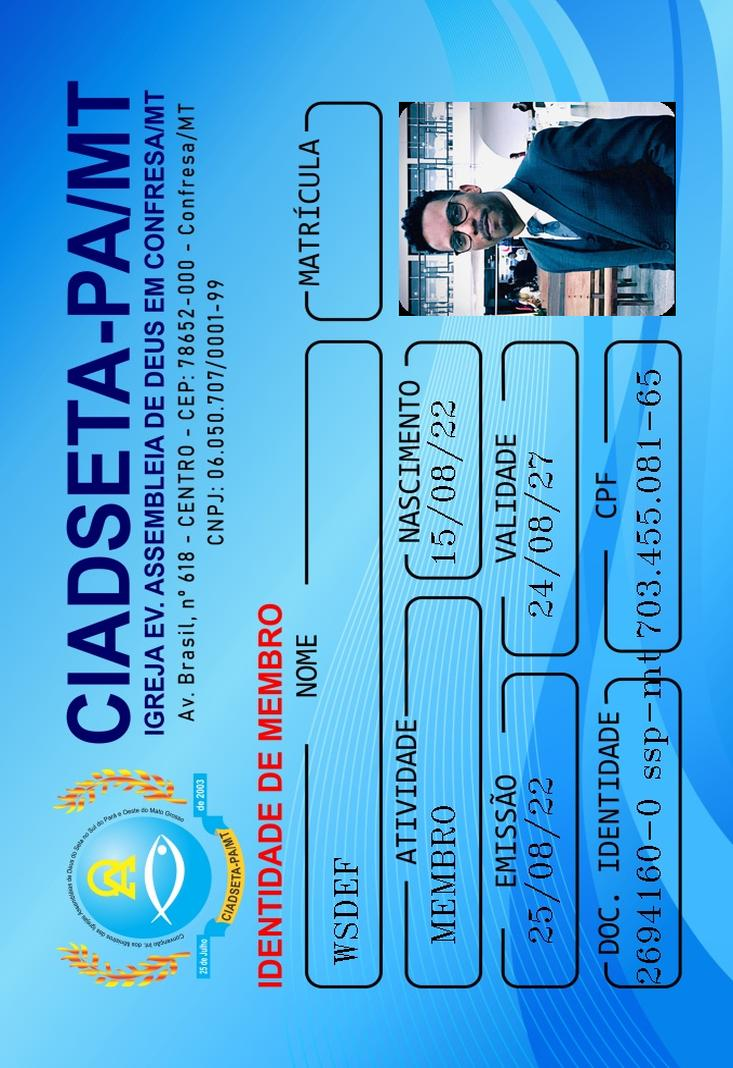
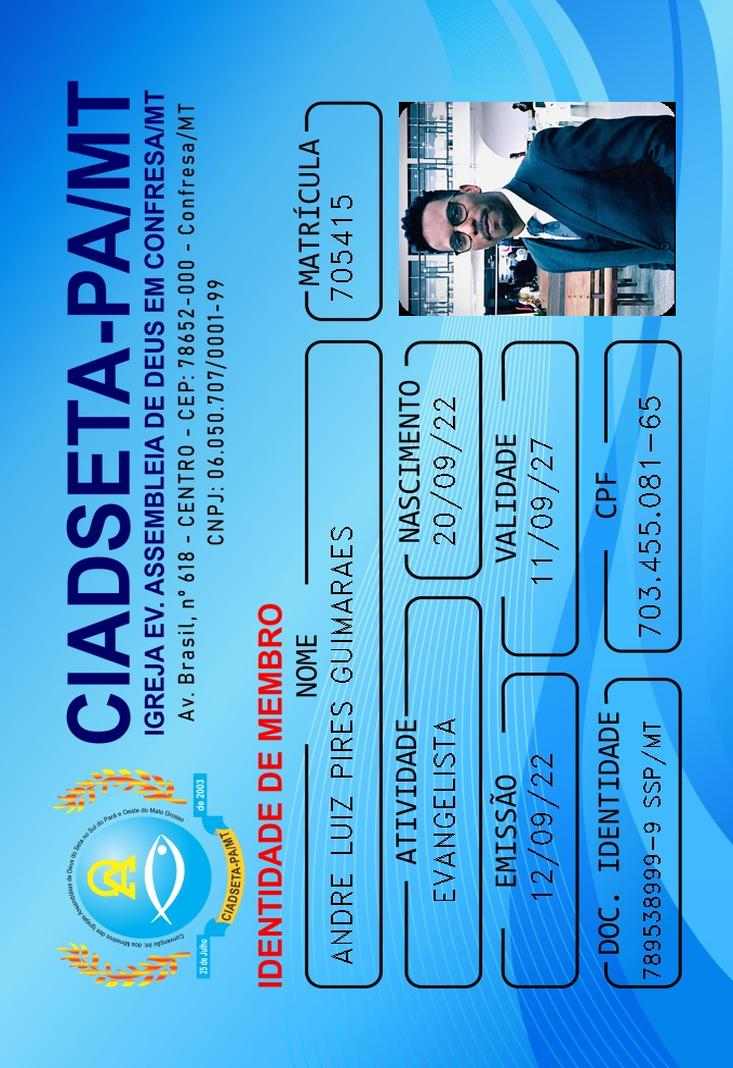
finalização do projeto

diff --git a/layout.py b/layout.py
@@ -21,6 +21,7 @@ from datetime import timedelta, date
 
 '''=======FRONT SIDE OF CARD=============='''
 KEY_IMPUT_NAME = '--NAME--'
+KEY_INPUT_REGISTRATION = '--REGISTRATION--'
 KEY_INPUT_ACTIVITY = '-ACTIVITY--'
 KEY_INPUT_BIRTH = '--BIRTH--'
 KEY_INPUT_EMISSION = '--EMISSION--'
@@ -86,15 +87,17 @@ class Card_format:
         img = cv2.imread(imgToEdit)
         #imgPNG = cv2.imread('image.png')
         
-        cv2.putText(img,values[KEY_IMPUT_NAME],(100,330),cv2.FONT_HERSHEY_TRIPLEX,1,0)
-        cv2.putText(img,values[KEY_INPUT_ACTIVITY],(120,420),cv2.FONT_HERSHEY_TRIPLEX,1,0)
-        cv2.putText(img,values[KEY_INPUT_BIRTH],(490,420),cv2.FONT_HERSHEY_TRIPLEX,1,0)
-        cv2.putText(img,values[KEY_INPUT_EMISSION],(120,510),cv2.FONT_HERSHEY_TRIPLEX,1,0)
-        cv2.putText(img,values[KEY_INPUT_VALIDITY],(440,510),cv2.FONT_HERSHEY_TRIPLEX,1,0)
-        cv2.putText(img,values[KEY_INPUT_IDENTITY_DOCUMENT],(80,610),cv2.FONT_HERSHEY_TRIPLEX,1,0)
-        cv2.putText(img,values[KEY_INPUT_CPF],(420,610),cv2.FONT_HERSHEY_TRIPLEX,1,0)
+        cv2.putText(img,values[KEY_IMPUT_NAME],(100,325),cv2.QT_FONT_NORMAL,0.9,0)
+        cv2.putText(img,values[KEY_INPUT_REGISTRATION],(750,325),cv2.QT_FONT_NORMAL,0.9,0)
+        cv2.putText(img,values[KEY_INPUT_ACTIVITY],(160,420),cv2.QT_FONT_NORMAL,0.9,0)
+        cv2.putText(img,values[KEY_INPUT_BIRTH],(510,420),cv2.QT_FONT_NORMAL,0.9,0)
+        cv2.putText(img,values[KEY_INPUT_EMISSION],(160,510),cv2.QT_FONT_NORMAL,0.9,0)
+        cv2.putText(img,values[KEY_INPUT_VALIDITY],(470,510),cv2.QT_FONT_NORMAL,0.9,0)
+        cv2.putText(img,values[KEY_INPUT_IDENTITY_DOCUMENT],(85,610),cv2.QT_FONT_NORMAL,0.7,0)
+        cv2.putText(img,values[KEY_INPUT_CPF],(420,610),cv2.QT_FONT_NORMAL,0.9,0)
         
         cv2.imwrite(nameNewImage,img)
+        #789538999-9 SSP/MT
         
         self.trataImage(nameNewImage, path_img_member)
         
@@ -102,12 +105,12 @@ class Card_format:
     def editImageBackground(self, values, imgToEdit, nameNewImage):
         img = cv2.imread(imgToEdit)
         
-        cv2.putText(img, values[KEY_INPUT_FATHER],(120,119),cv2.FONT_HERSHEY_TRIPLEX,1,0)
-        cv2.putText(img, values[KEY_INPUT_MOTHER],(120,210),cv2.FONT_HERSHEY_TRIPLEX,1,0)
-        cv2.putText(img, values[KEY_INPUT_NATURALNESS],(120,300),cv2.FONT_HERSHEY_TRIPLEX,1,0)
-        cv2.putText(img, values[KEY_INPUT_SEX],(755,300),cv2.FONT_HERSHEY_TRIPLEX,1,0)
-        cv2.putText(img, values[KEY_INPUT_CONVERSION],(105,395),cv2.FONT_HERSHEY_TRIPLEX,1,0)
-        cv2.putText(img, values[KEY_INPUT_WATER_BAPTISM],(390,395),cv2.FONT_HERSHEY_TRIPLEX,1,0)
+        cv2.putText(img, values[KEY_INPUT_FATHER],(120,119),cv2.FONT_HERSHEY_SIMPLEX,1,0)
+        cv2.putText(img, values[KEY_INPUT_MOTHER],(120,210),cv2.FONT_HERSHEY_SIMPLEX,1,0)
+        cv2.putText(img, values[KEY_INPUT_NATURALNESS],(120,300),cv2.FONT_HERSHEY_SIMPLEX,1,0)
+        cv2.putText(img, values[KEY_INPUT_SEX],(755,300),cv2.FONT_HERSHEY_SIMPLEX,1,0)
+        cv2.putText(img, values[KEY_INPUT_CONVERSION],(105,395),cv2.FONT_HERSHEY_SIMPLEX,1,0)
+        cv2.putText(img, values[KEY_INPUT_WATER_BAPTISM],(390,395),cv2.FONT_HERSHEY_SIMPLEX,1,0)
         
         #cv2.imshow("janela",img)
         
@@ -137,6 +140,7 @@ class main:
     def layout(self):
         tab_card_front = [
                     [sg.T('Nome', size=(15)), sg.Input(key=KEY_IMPUT_NAME)],
+                    [sg.T('Matricula', size=(15)), sg.Input(key=KEY_INPUT_REGISTRATION, size=(15))],
                     [sg.T('Atividade', size=(15)), sg.Combo(['CONGREGADO', 'MEMBRO','AUXILIAR', 'DIACONO', 'PRESBITERO', 'EVANGELISTA', 'PASTOR'], key=KEY_INPUT_ACTIVITY, readonly=True)],
                     [sg.T('Data de Nascimento', size=(15)), sg.Input(key=KEY_INPUT_BIRTH, disabled=True, size=(10)), sg.CalendarButton('Data', target=KEY_INPUT_BIRTH, pad=None, key='--CALEND_BIRTH--', format=('%d/%m/%y'))],
                     [sg.T('Data de Emissão', size=(15)), sg.Input(default_text = self.new_date ,key=KEY_INPUT_EMISSION, disabled=True, size=(10)), sg.CalendarButton('Data', target=KEY_INPUT_EMISSION, pad=None, key='--CALEND_EMISSION--', format=('%d/%m/%y'))],
@@ -222,6 +226,7 @@ class main:
                 
             if event == KEY_BTN_GENERATE:
                 values_inputs = {KEY_IMPUT_NAME: self.remove_special_characters(valuer[KEY_IMPUT_NAME]),
+                                 KEY_INPUT_REGISTRATION: valuer[KEY_INPUT_REGISTRATION],
                                  KEY_INPUT_ACTIVITY: valuer[KEY_INPUT_ACTIVITY],
                                  KEY_INPUT_BIRTH: valuer[KEY_INPUT_BIRTH],
                                  KEY_INPUT_EMISSION: valuer[KEY_INPUT_EMISSION],
